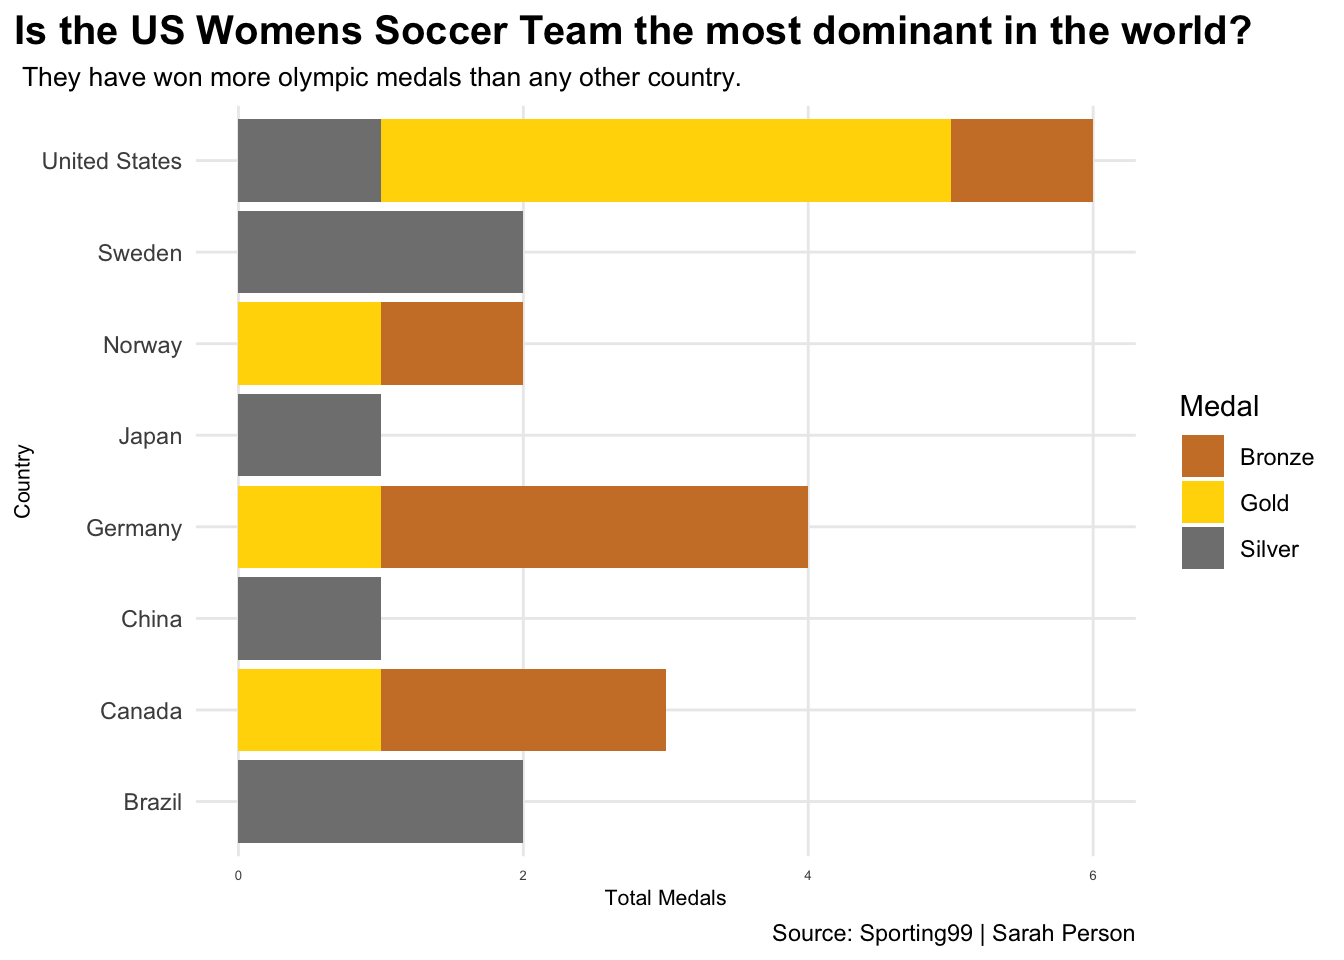
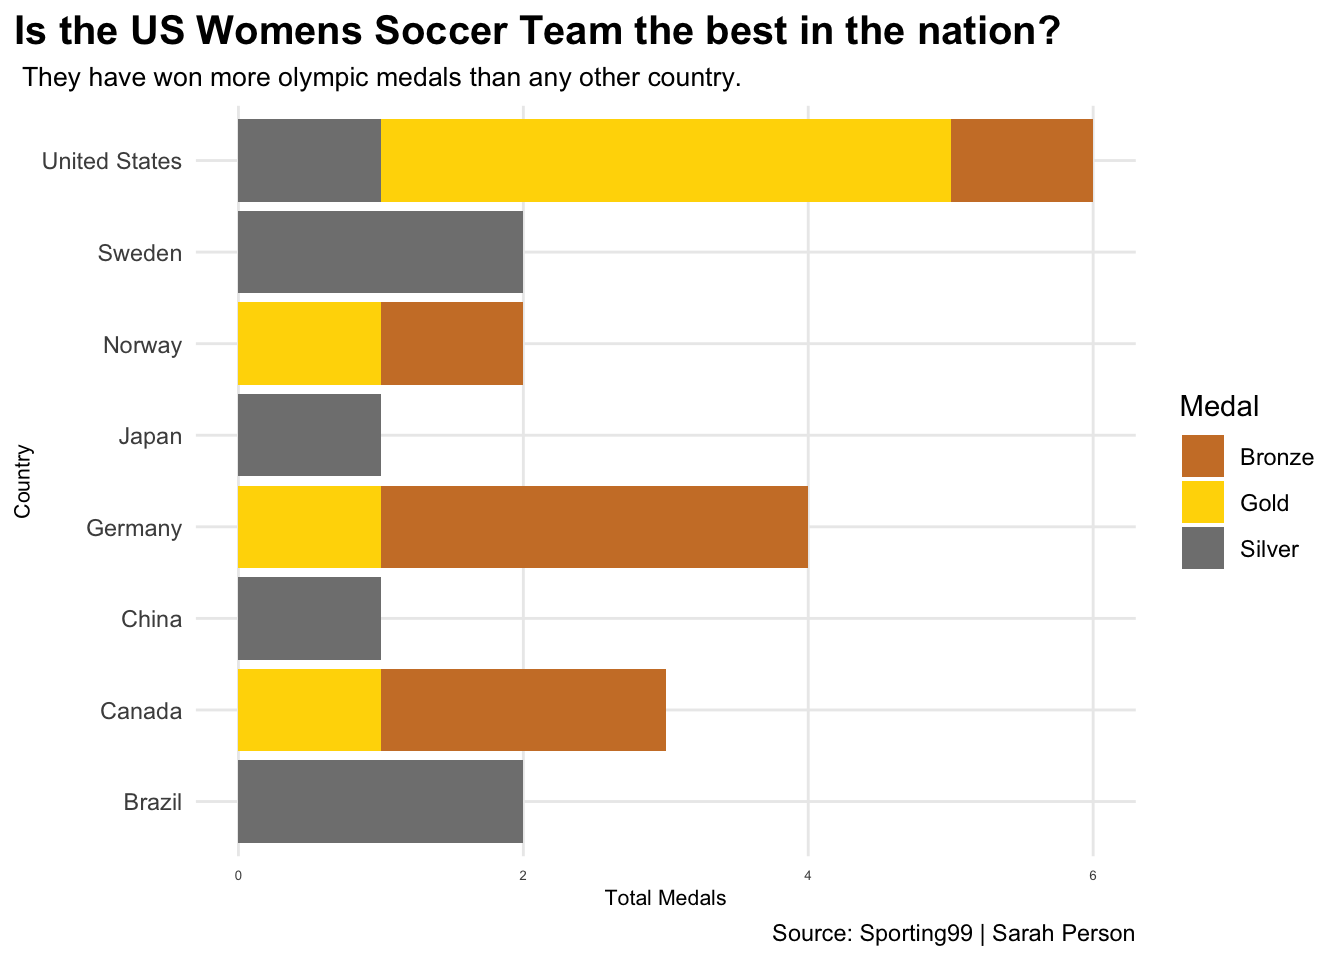
post 2

Changed region(s): [[0.5312, 0.0, 0.9375, 0.0625]]

diff --git a/posts/is-the-us-womens-soccer-team-the-most-dominant-in-the-world/index.html b/posts/is-the-us-womens-soccer-team-the-most-dominant-in-the-world/index.html
@@ -213,7 +213,10 @@ code span.wa { color: #60a0b0; font-weight: bold; font-style: italic; } /* Warni
 
 
 
-<p>this is where i type my blog</p>
+<p>The US Women’s soccer team has absolutely been tearing it up in recent years with numerous titles and awards to their name. If your a follower of international soccer chances are you have seen the team’s dominance throughout history.</p>
+<p>But are they really the best? Many things come into play when determining the number one team in the world. You may take a look at the Olympics, World Cups, and even rankings.</p>
+<p>The US has crushed their opponents in all three categories so are they truly the most dominant team in the world?</p>
+<p>The first thing to look at when showing dominance on the international stage is Olympic Medals.</p>
 <div class="cell">
 <details>
 <summary>Code</summary>
@@ -248,7 +251,7 @@ code span.wa { color: #60a0b0; font-weight: bold; font-style: italic; } /* Warni
 <span id="cb1-29"><a href="#cb1-29" aria-hidden="true" tabindex="-1"></a>  <span class="fu">labs</span>(</span>
 <span id="cb1-30"><a href="#cb1-30" aria-hidden="true" tabindex="-1"></a>    <span class="at">x=</span><span class="st">"Country"</span>, </span>
 <span id="cb1-31"><a href="#cb1-31" aria-hidden="true" tabindex="-1"></a>    <span class="at">y=</span><span class="st">"Total Medals"</span>, </span>
-<span id="cb1-32"><a href="#cb1-32" aria-hidden="true" tabindex="-1"></a>    <span class="at">title=</span><span class="st">"Is the US Womens Soccer Team the most dominant in the world?"</span>, </span>
+<span id="cb1-32"><a href="#cb1-32" aria-hidden="true" tabindex="-1"></a>    <span class="at">title=</span><span class="st">"Is the US Womens Soccer Team the best in the nation?"</span>, </span>
 <span id="cb1-33"><a href="#cb1-33" aria-hidden="true" tabindex="-1"></a>    <span class="at">subtitle=</span><span class="st">" They have won more olympic medals than any other country."</span>, </span>
 <span id="cb1-34"><a href="#cb1-34" aria-hidden="true" tabindex="-1"></a>    <span class="at">caption=</span><span class="st">"Source: Sporting99 | Sarah Person"</span></span>
 <span id="cb1-35"><a href="#cb1-35" aria-hidden="true" tabindex="-1"></a>    ) <span class="sc">+</span></span>
@@ -266,7 +269,8 @@ code span.wa { color: #60a0b0; font-weight: bold; font-style: italic; } /* Warni
 <p><img src="index_files/figure-html/unnamed-chunk-1-1.png" class="img-fluid" width="672"></p>
 </div>
 </div>
-<p>more words here</p>
+<p>The US has clearly overtakes the number one when it comes to Olympic success. They have won more Gold medals than seven other countries combined and also ahve the most overall medals out of any country.</p>
+<p>Now Olympic medals is not the only thing to look at when proving who is the most dominant team. Another statistic to look at is World Cup titles/goals.</p>
 <div class="cell">
 <details>
 <summary>Code</summary>
@@ -282,14 +286,14 @@ code span.wa { color: #60a0b0; font-weight: bold; font-style: italic; } /* Warni
 <span id="cb2-10"><a href="#cb2-10" aria-hidden="true" tabindex="-1"></a>  <span class="fu">labs</span>(</span>
 <span id="cb2-11"><a href="#cb2-11" aria-hidden="true" tabindex="-1"></a>    <span class="at">x=</span><span class="st">"Goals"</span>, </span>
 <span id="cb2-12"><a href="#cb2-12" aria-hidden="true" tabindex="-1"></a>    <span class="at">y=</span><span class="st">"Years"</span>, </span>
-<span id="cb2-13"><a href="#cb2-13" aria-hidden="true" tabindex="-1"></a>    <span class="at">title=</span><span class="st">"Does number of world cup goals correlate to a deep run in the tournament?"</span>, </span>
-<span id="cb2-14"><a href="#cb2-14" aria-hidden="true" tabindex="-1"></a>    <span class="at">subtitle=</span><span class="st">"In all three years, the US were either first or second in goals socred and made it to the championship game."</span>, </span>
+<span id="cb2-13"><a href="#cb2-13" aria-hidden="true" tabindex="-1"></a>    <span class="at">title=</span><span class="st">"Does number of world cup goals equal a deep tournament run?"</span>, </span>
+<span id="cb2-14"><a href="#cb2-14" aria-hidden="true" tabindex="-1"></a>    <span class="at">subtitle=</span><span class="st">"Each year, the US were highly ranked in goals scored and made it to the final."</span>, </span>
 <span id="cb2-15"><a href="#cb2-15" aria-hidden="true" tabindex="-1"></a>    <span class="at">caption=</span><span class="st">"Source: FootballReference | Sarah Person"</span></span>
 <span id="cb2-16"><a href="#cb2-16" aria-hidden="true" tabindex="-1"></a>    )<span class="sc">+</span></span>
 <span id="cb2-17"><a href="#cb2-17" aria-hidden="true" tabindex="-1"></a>  <span class="fu">theme_minimal</span>() <span class="sc">+</span> </span>
 <span id="cb2-18"><a href="#cb2-18" aria-hidden="true" tabindex="-1"></a>  <span class="fu">theme</span>(</span>
 <span id="cb2-19"><a href="#cb2-19" aria-hidden="true" tabindex="-1"></a>    <span class="at">plot.title =</span> <span class="fu">element_text</span>(<span class="at">size =</span> <span class="dv">15</span>, <span class="at">face =</span> <span class="st">"bold"</span>),</span>
-<span id="cb2-20"><a href="#cb2-20" aria-hidden="true" tabindex="-1"></a>    <span class="at">axis.title =</span> <span class="fu">element_text</span>(<span class="at">size =</span> <span class="dv">8</span>), </span>
+<span id="cb2-20"><a href="#cb2-20" aria-hidden="true" tabindex="-1"></a>    <span class="at">axis.title =</span> <span class="fu">element_text</span>(<span class="at">size =</span> <span class="dv">10</span>), </span>
 <span id="cb2-21"><a href="#cb2-21" aria-hidden="true" tabindex="-1"></a>    <span class="at">plot.subtitle =</span> <span class="fu">element_text</span>(<span class="at">size=</span><span class="dv">10</span>), </span>
 <span id="cb2-22"><a href="#cb2-22" aria-hidden="true" tabindex="-1"></a>    <span class="at">panel.grid.minor =</span> <span class="fu">element_blank</span>(),</span>
 <span id="cb2-23"><a href="#cb2-23" aria-hidden="true" tabindex="-1"></a>    <span class="at">plot.title.position =</span> <span class="st">"plot"</span>,</span>
@@ -300,7 +304,9 @@ code span.wa { color: #60a0b0; font-weight: bold; font-style: italic; } /* Warni
 <p><img src="index_files/figure-html/unnamed-chunk-2-1.png" class="img-fluid" width="672"></p>
 </div>
 </div>
-<p>more words here</p>
+<p>Does scoring a lot of goals in the world cup accumulate to a deep run in the tournament? In the last three world cups, the US has been either first or second in goals scored.</p>
+<p>They made the championship all three times, while winning two of those. So yes, amount of goals does equal a deep run in the tournament and the US has clearly shown that.</p>
+<p>There is one more thing to look at when determining the most dominant womens soccer team and that is FIFA ranking.</p>
 <div class="cell">
 <details>
 <summary>Code</summary>
@@ -336,7 +342,8 @@ code span.wa { color: #60a0b0; font-weight: bold; font-style: italic; } /* Warni
 <p><img src="index_files/figure-html/unnamed-chunk-3-1.png" class="img-fluid" width="672"></p>
 </div>
 </div>
-<p>more words here</p>
+<p>The US has shown its dominance over the last five years as they have never lost the number one ranking. Other countries have risen and falling throughout the years, but the US has consistantly been good.</p>
+<p>In conclusion, the US is the most dominant women’s soccer team in the country. They have outnumbered their opponents in multiple categories including Olympic Medals, World Cup titles/goals, and FIFA ranking.</p>
 
 
 

diff --git a/index.html b/index.html
@@ -171,7 +171,7 @@ ul.task-list li input[type="checkbox"] {
 
 <div class="quarto-listing quarto-listing-container-default" id="listing-listing">
 <div class="list quarto-listing-default">
-<div class="quarto-post image-right" data-index="0" data-categories="soccer,code,analysis" data-listing-date-sort="1682658000000" data-listing-file-modified-sort="1682708589094" data-listing-reading-time-sort="2.835">
+<div class="quarto-post image-right" data-index="0" data-categories="soccer,code,analysis" data-listing-date-sort="1682658000000" data-listing-file-modified-sort="1683056030212" data-listing-reading-time-sort="4.315">
 <div class="thumbnail">
 <p><a href="./posts/is-the-us-womens-soccer-team-the-most-dominant-in-the-world/index.html"> <img src="./posts/is-the-us-womens-soccer-team-the-most-dominant-in-the-world/image.png" class="thumnail-image"> </a></p>
 </div>
@@ -197,7 +197,7 @@ analysis
 </div>
 <a href="./posts/is-the-us-womens-soccer-team-the-most-dominant-in-the-world/index.html">
 <div class="listing-description">
-this is where i type my blog
+The US Women’s soccer team has absolutely been tearing…
 </div>
 </a>
 </div>
